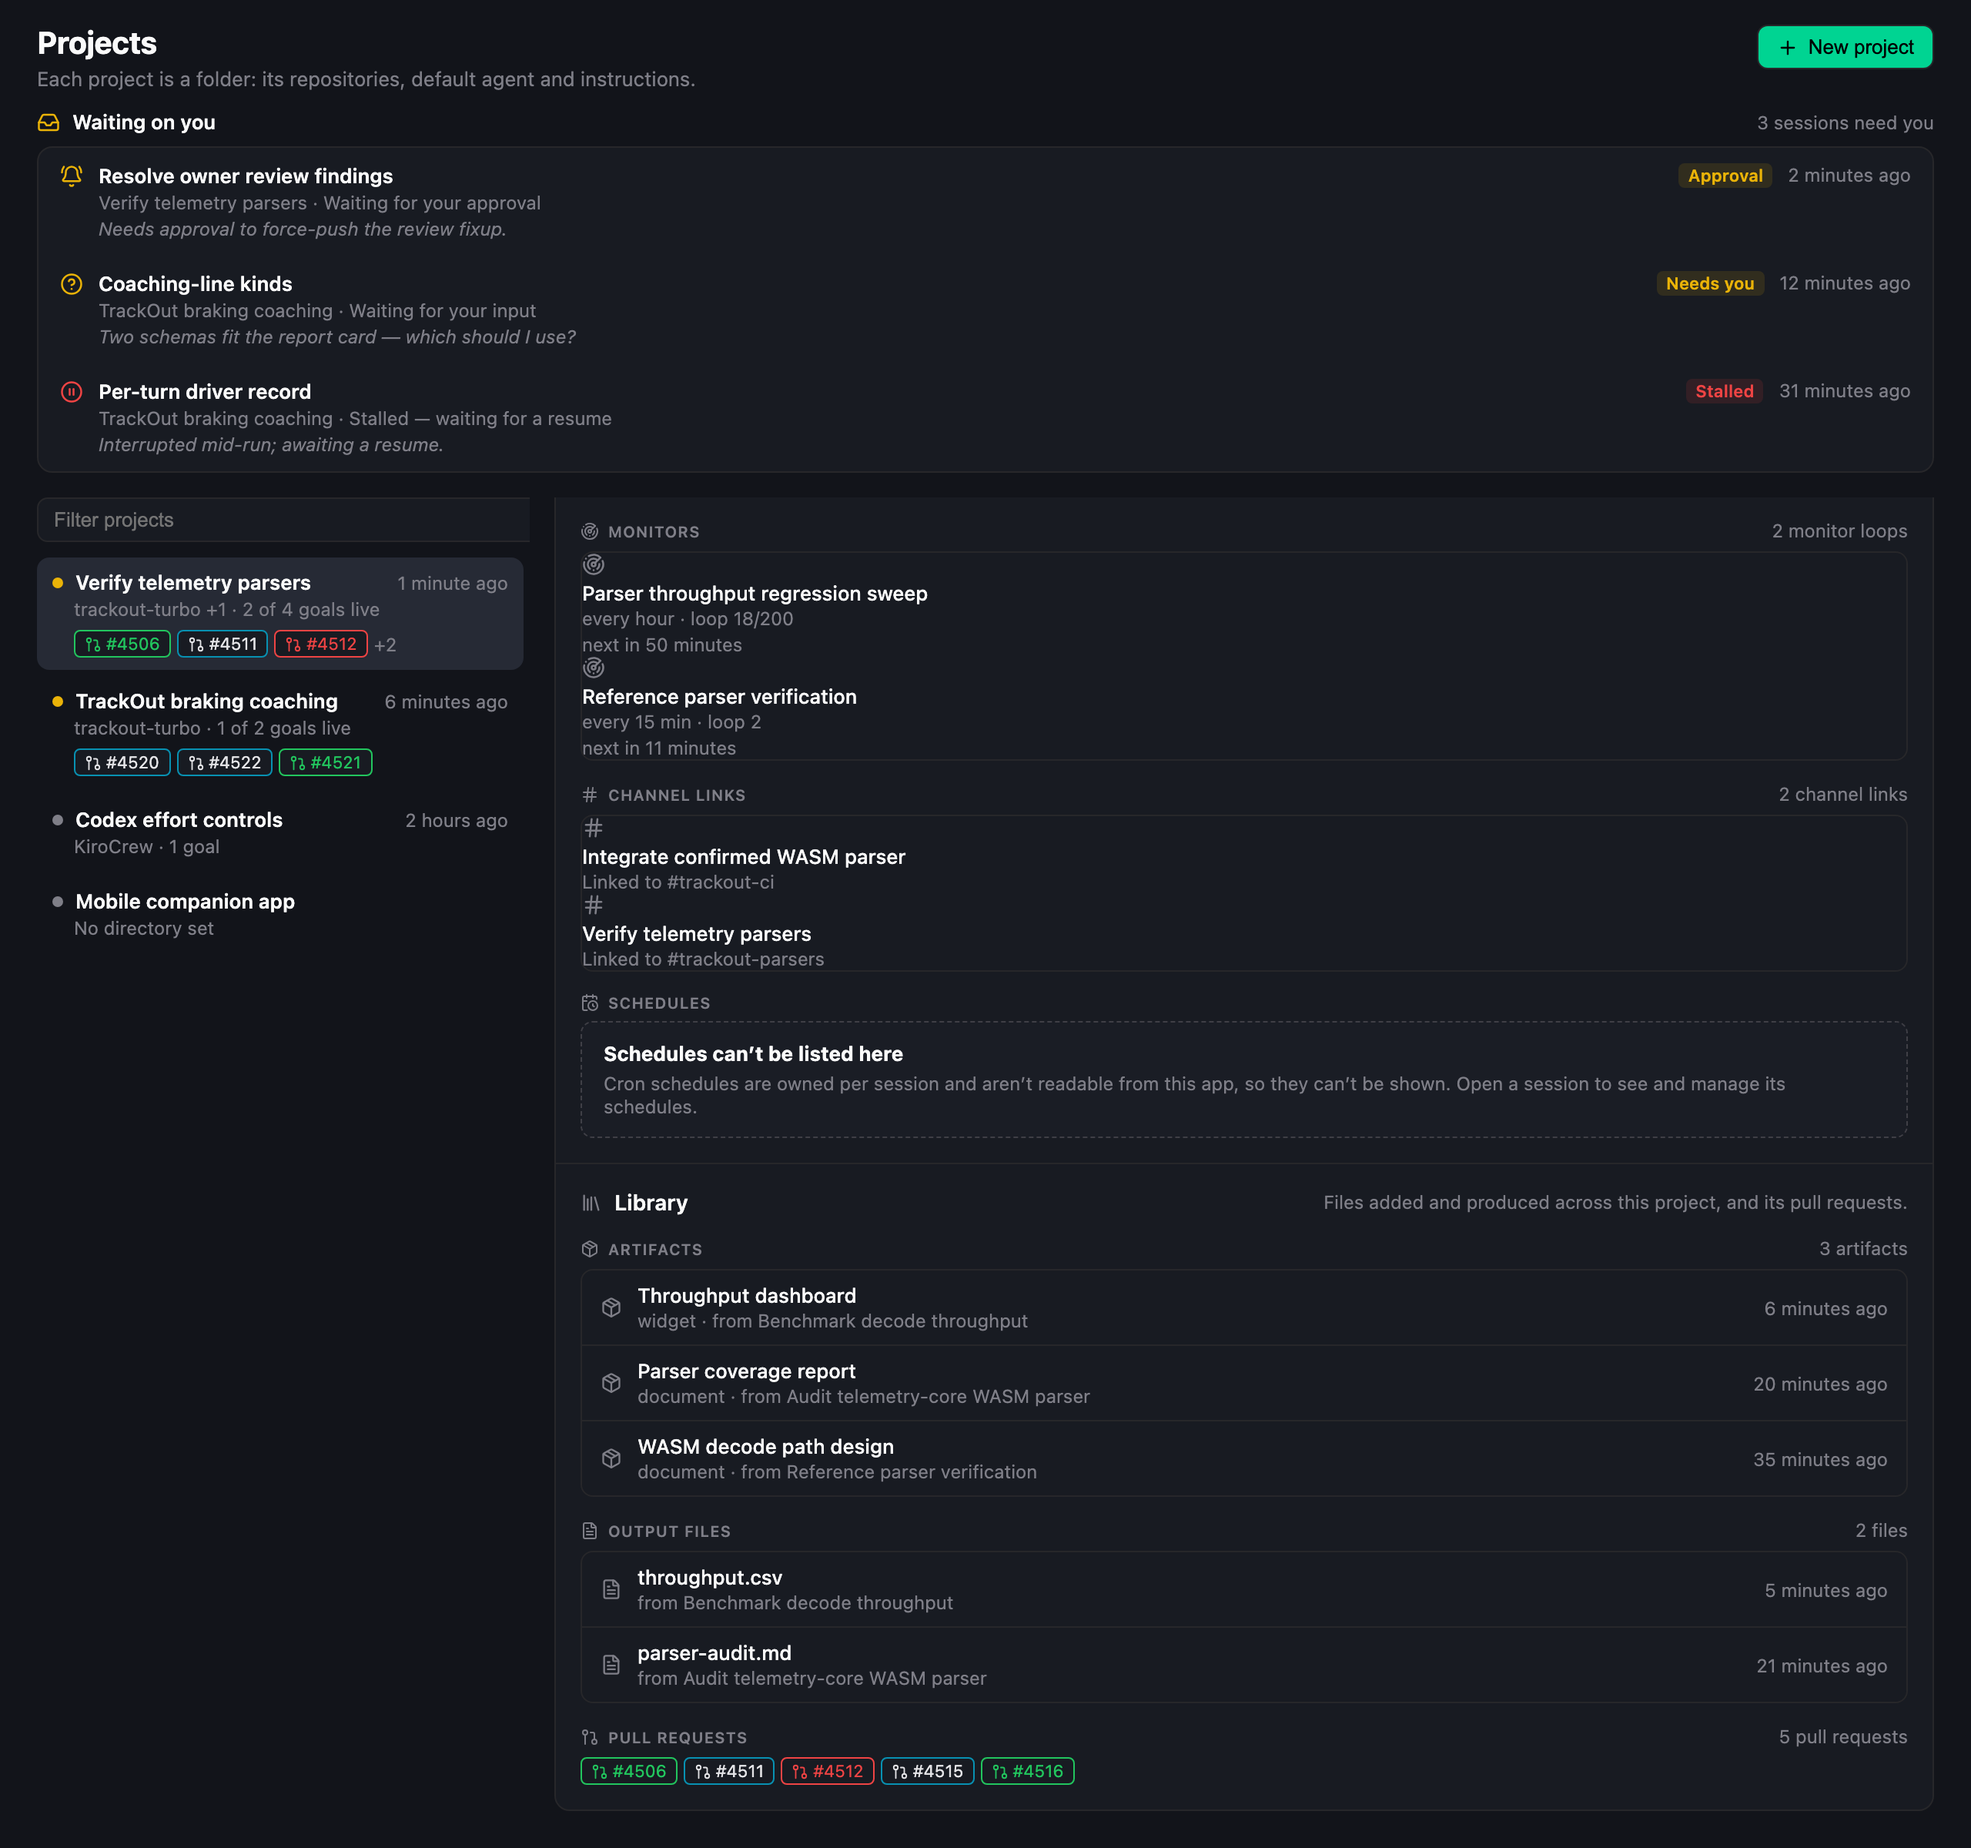
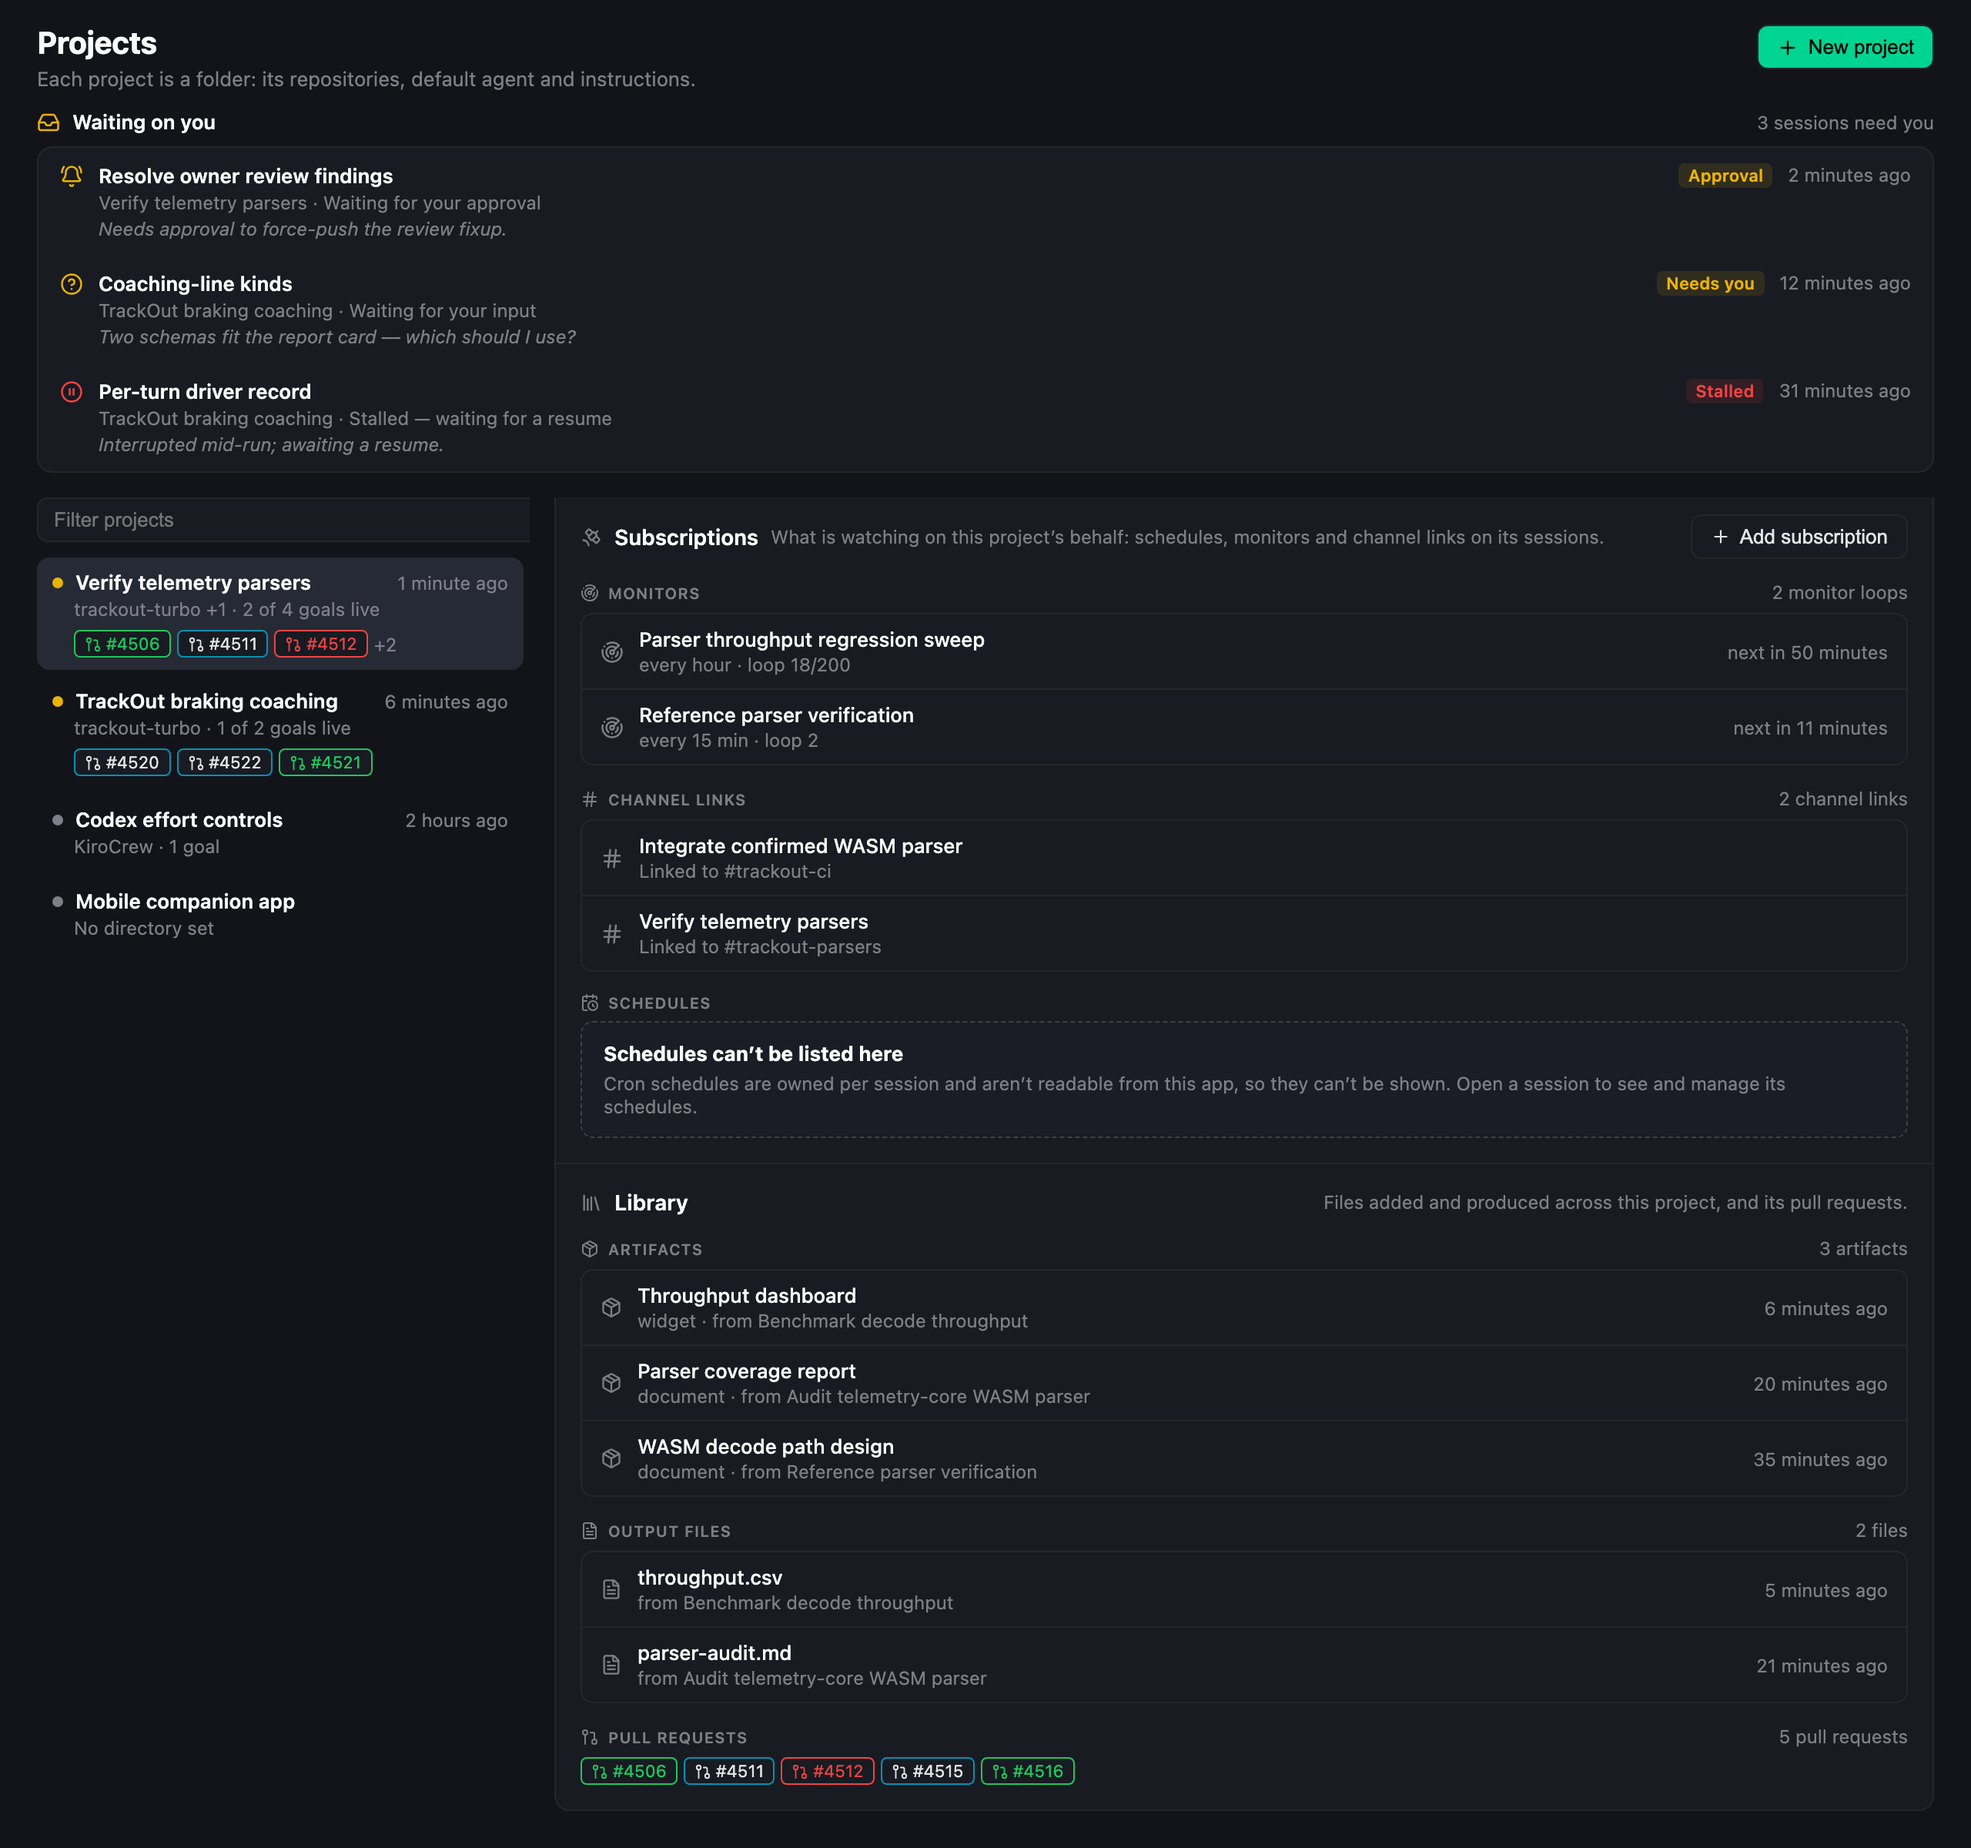
fix: style subscription rows and guard against undefined class names

Changed region(s): [[0.2812, 0.2812, 0.5, 0.5312], [0.875, 0.2812, 0.9688, 0.3125]]

diff --git a/ui/src/classnames.test.ts b/ui/src/classnames.test.ts
@@ -1,0 +1,26 @@
+import { readFileSync } from 'node:fs'
+import { describe, expect, it } from 'vitest'
+import { css } from './styles'
+
+// Guards the failure that shipped in the Subscriptions panel: App used
+// `tp-sub-row` while styles.ts defined `.tp-subs-row`, so rows rendered unstyled
+// and no test noticed. Every literal tp-* class App renders must have a rule.
+const NO_RULE_NEEDED = new Set([
+  'tp-cell-task', // layout hook only; the grid on .tp-mrow places it
+])
+
+describe('class names', () => {
+  it('every tp-* class used in App.tsx has a CSS rule', () => {
+    const app = readFileSync(new URL('./App.tsx', import.meta.url), 'utf8')
+    const literals = [...app.matchAll(/className=\{?[`"]([^`"]*)/g)].map(m => m[1])
+    const used = new Set(
+      literals
+        .join(' ')
+        .replace(/\$\{[^}]*\}/g, ' ') // drop template interpolations
+        .match(/\btp-[a-z0-9_-]+/g) ?? [],
+    )
+    const defined = new Set([...css.matchAll(/\.(tp-[a-z0-9_-]+)/g)].map(m => m[1]))
+    const missing = [...used].filter(c => !c.endsWith('-') && !defined.has(c) && !NO_RULE_NEEDED.has(c))
+    expect(missing).toEqual([])
+  })
+})

diff --git a/ui/src/App.tsx b/ui/src/App.tsx
@@ -399,7 +399,7 @@ function SubscriptionRow({ sub, onOpen }: { sub: Subscription; onOpen: (key: str
     sub.kind === 'monitor' ? t.subMonitorMeta(sub.detail, sub.progress) : t.subSlackMeta(sub.detail)
   return (
     <Clickable
-      className="tp-sub-row"
+      className="tp-subs-row"
       onClick={() => onOpen(sub.slotKey)}
       aria-label={t.subscriptionOpen(sub.sessionTitle || t.untitled)}
     >
